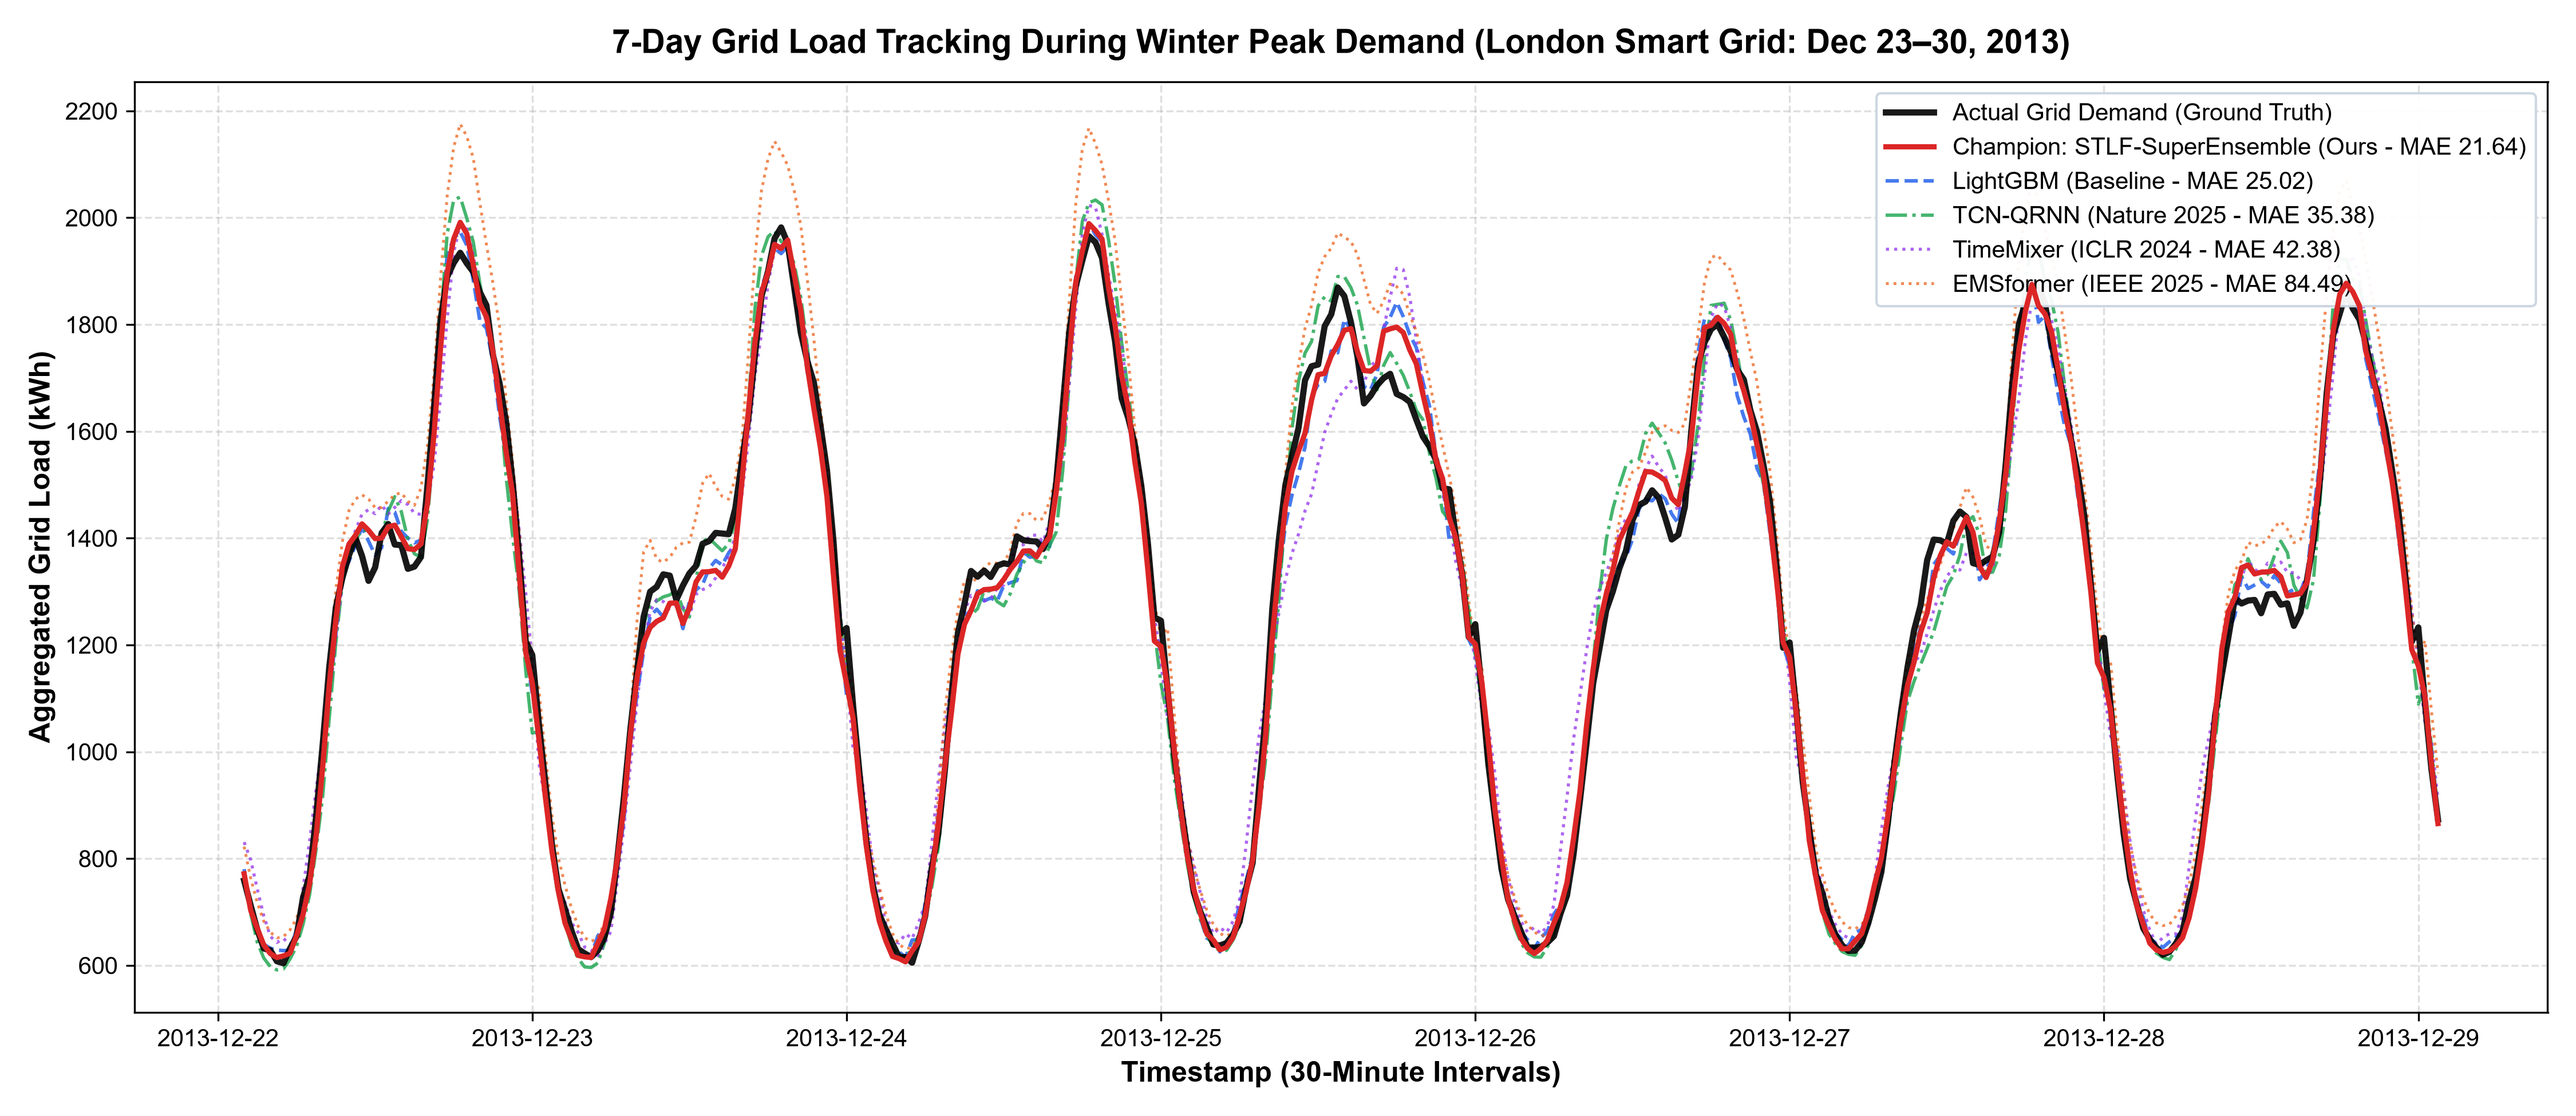
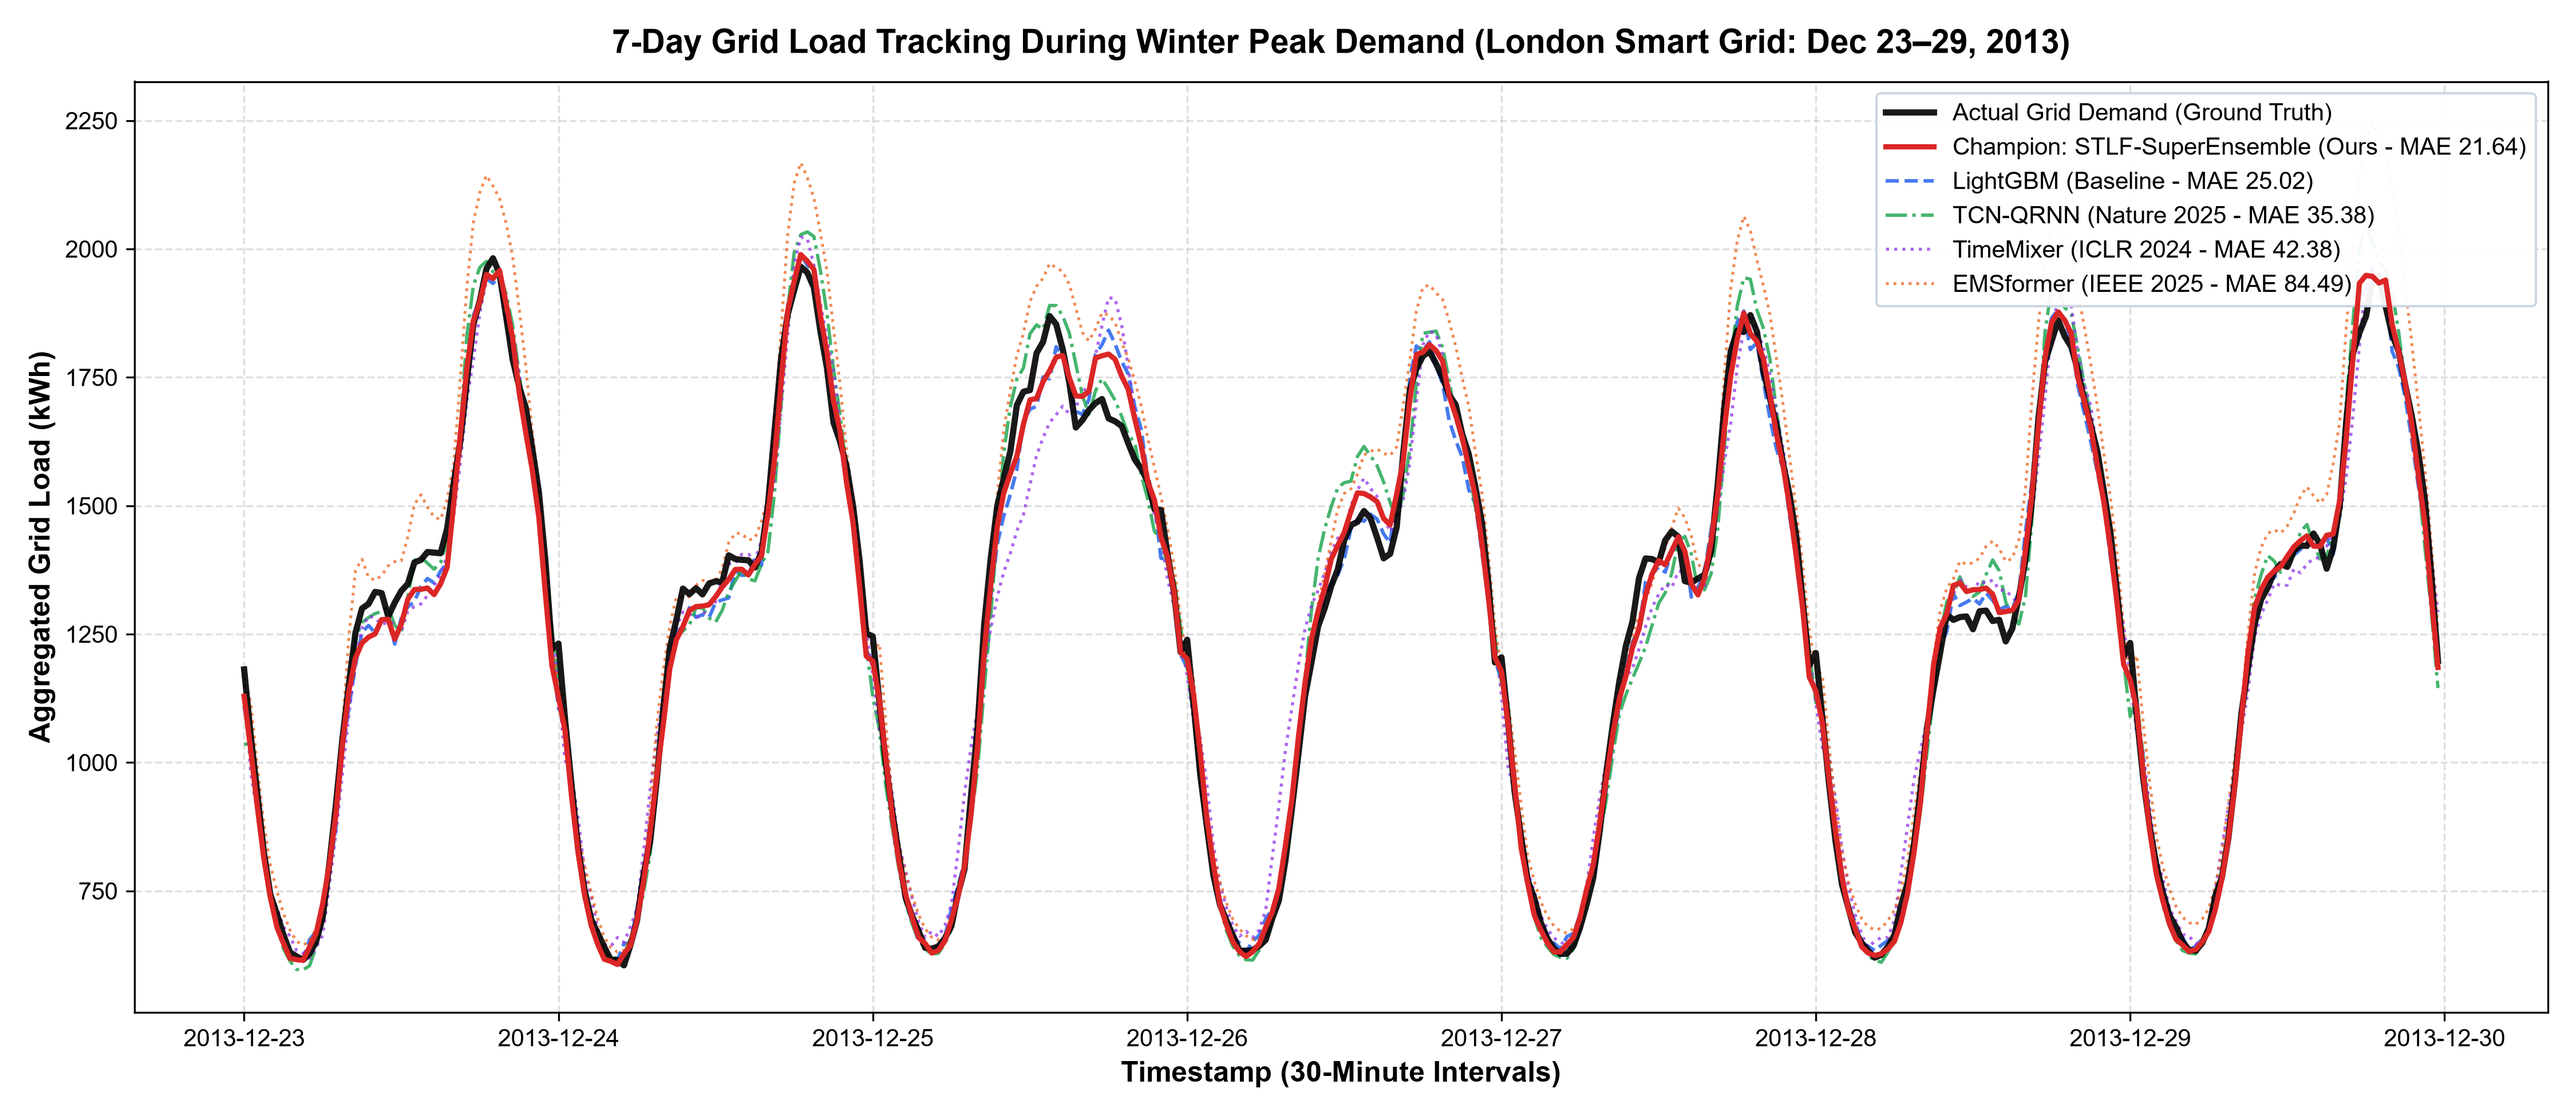
fix(figures): align Figure 1 date range to clean Monday-Sunday Dec 23-29, 2013

diff --git a/benchmark_suite/generate_paper_figures.py b/benchmark_suite/generate_paper_figures.py
@@ -51,8 +51,8 @@ def generate_all_figures():
                 preds_data[name] = df_p['pred_kWh'].values[48:]
 
     # Select winter peak week (336 half-hours = 7 days)
-    # Peak winter week in late December (Dec 23-30, 2013)
-    start_idx = 2600
+    # Clean Monday-to-Sunday winter week (Dec 23-29, 2013): index 2644 to 2980
+    start_idx = 2644
     end_idx = start_idx + 336
     time_window = eval_df['tstp'].iloc[start_idx:end_idx]
 
@@ -70,7 +70,7 @@ def generate_all_figures():
     plt.plot(time_window, preds_data['EMSformer (IEEE TPWRS 2025)'][start_idx:end_idx], 
              label='EMSformer (IEEE 2025 - MAE 84.49)', color='#ea580c', linestyle=':', linewidth=1.2, alpha=0.7)
 
-    plt.title('7-Day Grid Load Tracking During Winter Peak Demand (London Smart Grid: Dec 23–30, 2013)', fontweight='bold', pad=12)
+    plt.title('7-Day Grid Load Tracking During Winter Peak Demand (London Smart Grid: Dec 23–29, 2013)', fontweight='bold', pad=12)
     plt.xlabel('Timestamp (30-Minute Intervals)', fontweight='bold')
     plt.ylabel('Aggregated Grid Load (kWh)', fontweight='bold')
     plt.grid(True, linestyle='--', alpha=0.4)

diff --git a/results/PAPER_RESULTS_SUMMARY.md b/results/PAPER_RESULTS_SUMMARY.md
@@ -73,7 +73,7 @@ This document and the associated files in this `results/` folder present the com
 
 ## 5. Visual Proof & Publication Figures in `results/`
 1. **[Figure_1_load_tracking_peak_week.png](file:///d:/dataset/smart%20london/results/Figure_1_load_tracking_peak_week.png)**:
-   * **Content**: 7-day continuous actual vs. predicted load tracking during London's coldest winter peak week (Dec 23–30, 2013).
+   * **Content**: 7-day continuous actual vs. predicted load tracking during London's coldest winter peak week (Dec 23–29, 2013).
    * **What it proves**: Proves that the Champion tracks rapid evening peak spikes and valley loads without phase delay, whereas baseline transformers either flatten or oscillate.
 2. **[Figure_2_regime_stress_comparison.png](file:///d:/dataset/smart%20london/results/Figure_2_regime_stress_comparison.png)**:
    * **Content**: Multi-axis radar stress chart comparing model stability across Peak Hours, Base Load, Cold Snaps, and Weekends.
